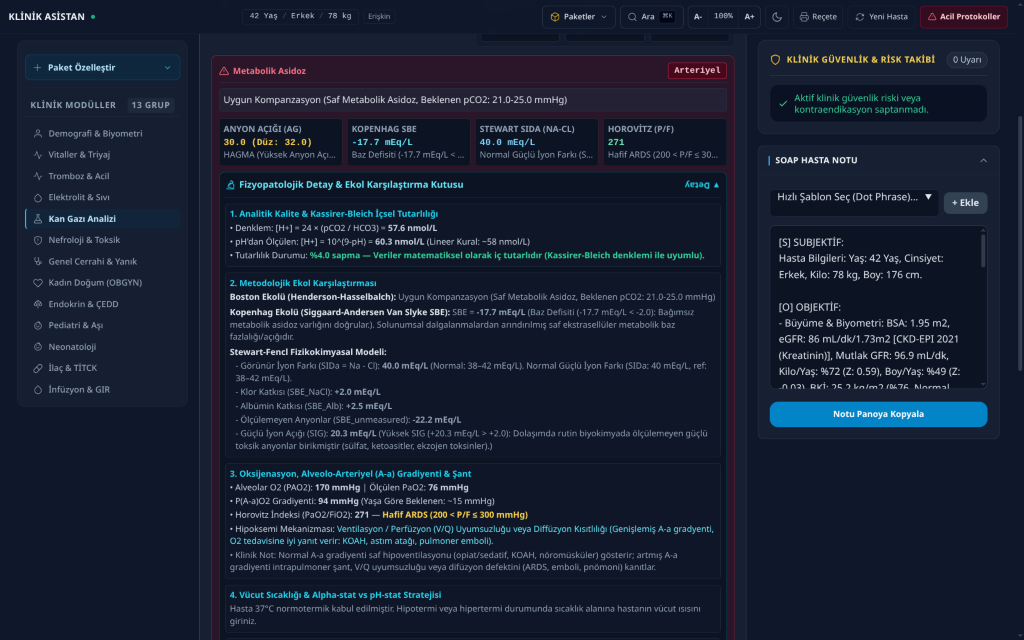
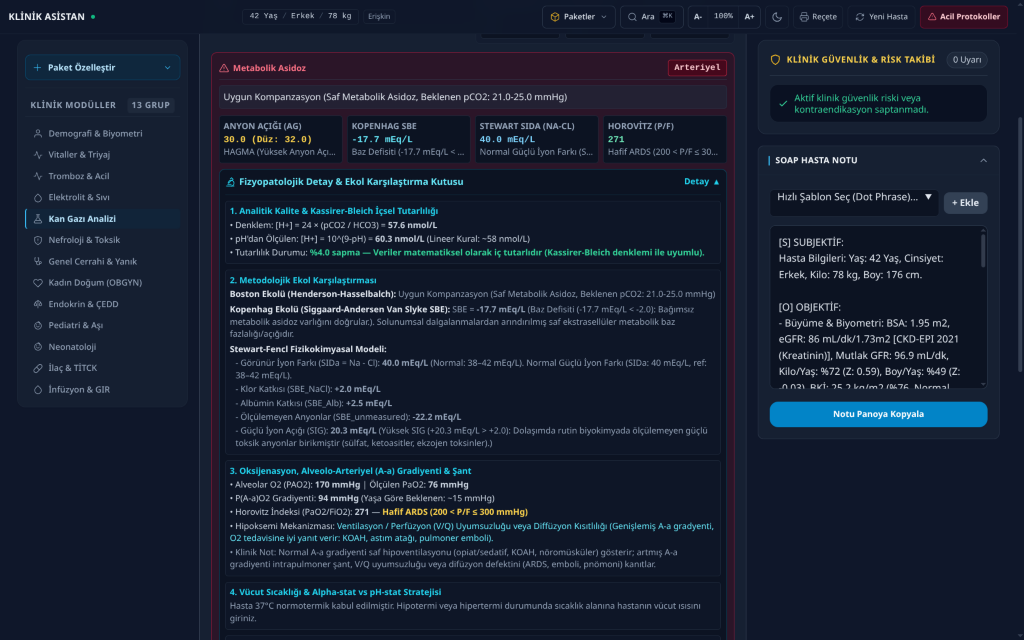
docs(readme): canlı demo özeti, monograf ve mobil ekran görüntüleri; kan gazı Detay oku düzeltildi

Changed region(s): [[0.2188, 0.0938, 0.7188, 0.9688], [0.625, 0.0625, 0.7188, 0.125]]

diff --git a/src/controllers/internalMedicineController.ts b/src/controllers/internalMedicineController.ts
@@ -614,7 +614,7 @@ export function updateInternalMedicineCard(ageData: PatientAgeResult): void {
                         ${getSvgIcon('microscope', 'w-3.5 h-3.5 text-cyan-400 shrink-0')}
                         <span>Fizyopatolojik Detay & Ekol Karşılaştırma Kutusu</span>
                     </span>
-                    <span class="text-[0.75rem] text-cyan-400 group-open/deep:rotate-180 transition-transform">▼ Detay</span>
+                    <span class="inline-flex items-center gap-1 text-[0.75rem] text-cyan-400"><span>Detay</span><span class="inline-block group-open/deep:rotate-180 transition-transform">▼</span></span>
                 </summary>
                 
                 <div class="mt-2 space-y-2 text-[0.75rem] text-slate-300 border-t border-cyan-900/40 pt-2">

diff --git a/README.md b/README.md
@@ -13,6 +13,28 @@ Klinik Karar Destek Asistanı; acil servis, poliklinik ve yataklı servislerde g
 
 Projenin temel amacı; yoğun klinik çalışma temposunda sık başvurulan kılavuz algoritmalarını, pediatrik ve erişkin dozaj hesaplamalarını, çoklu ilaç etkileşim denetimini ve epikriz dokümantasyonunu tek bir arayüzde toplayarak hekimin karar verme sürecine pratik ve güvenilir bir asistan sunmaktır.
 
+**Canlı Uygulama (PWA):** [vellidr.github.io/klinik-pwa-deneme](https://vellidr.github.io/klinik-pwa-deneme/) — Doğrudan tarayıcıda çalışır; masaüstü ve mobil cihazlara çevrimdışı uygulama olarak kurulabilir.
+
+### Öne Çıkan Kapsam
+- **21 klinik karar destek motoru:** Biyometri ve persentil (WHO / Neyzi 2015), eGFR (Schwartz / CKD-EPI 2021), 3 ekollü kan gazı analizi (Boston · Kopenhag · Stewart-Fencl), AAP 2022 yenidoğan sarılığı, pediatrik şurup dozlama, GBP 2026 aşı yakalama ve 10 başlıkta 30 genel cerrahi skorlama sistemi.
+- **Yerel TİTCK ilaç ve etkileşim katmanı:** 18.212 ruhsatlı ilaç, 1.794 ATC / 1.798 ICD-10 endikasyon eşlemesi, 5 sekmeli monograf görünümü, 1.198 ATC Türkçe KÜB bölümü ve 81.327 DDInter 2.0 etkileşim çifti.
+- **Canlı SOAP notu ve A4 kullanım çizelgesi:** Girilen ölçüm, skor ve uyarıların otomatik SOAP metnine derlenmesi ve hasta için yazdırılabilir A4 ilaç çizelgesi.
+- **Acil durum akışları:** Kilo bazlı IM adrenalin dozajı ile 5 dakikalık canlı anafilaksi sayacı ve AES kademeli status epileptikus kronometresi.
+- **İstemci taraflı gizlilik ve çevrimdışı çalışma:** Hasta verisi sunucuya gönderilmez; çekirdek uygulama ve ilaç veritabanı Workbox ile yerel önbelleğe alınır.
+
+<details>
+<summary>English Summary</summary>
+
+**Klinik Karar Destek Asistanı (Klinik PWA)** is an open-source, offline-first clinical decision support and medical education Progressive Web App built with TypeScript and Vite for Turkish clinical practice.
+
+- **21 Clinical Modules:** Pediatric growth percentiles (WHO & Neyzi 2015), eGFR (Schwartz & CKD-EPI 2021), three-school blood gas interpretation (Boston, Copenhagen SBE, Stewart-Fencl), AAP 2022 / TND 2014 neonatal hyperbilirubinemia, weight-based pediatric syrup dosing, Turkish national vaccination catch-up (GBP 2026), and 30 general surgery scoring systems across 10 domains.
+- **Local Drug Safety & Monograph Layer:** Client-side catalog of 18,212 Turkish-licensed medications (TİTCK), ICD-10 indication search, 5-tab monographs with 1,198 Turkish SmPC (KÜB) sections, LiverTox DILI flags, and an O(1) interaction engine combining curated rules with 81,327 DDInter 2.0 pairs.
+- **Privacy & Offline Support:** 100% client-side execution with zero telemetry; patient data never leaves the browser.
+- **Live Demo:** https://vellidr.github.io/klinik-pwa-deneme/
+- **Disclaimer:** Intended strictly as an educational and clinical reference aid for healthcare professionals; all calculations and drug decisions must be independently verified by a licensed physician.
+
+</details>
+
 ---
 
 > [!IMPORTANT]
@@ -25,7 +47,7 @@ Projenin temel amacı; yoğun klinik çalışma temposunda sık başvurulan kıl
 
 ## Uygulama Ekran Görüntüleri
 
-Uygulamanın masaüstü iş istasyonu görünümü (sol tarafta 13 klinik modül grubu, ortada reaktif karar destek motoru, sağda canlı güvenlik alarmları ve otomatik SOAP hasta notu) ile Aydınlık / Karanlık tema desteğini gösteren beş farklı klinik motor örneği:
+Masaüstü iş istasyonu görünümü (sol tarafta 13 klinik modül grubu, ortada reaktif karar destek motoru, sağda canlı güvenlik alarmları ve otomatik SOAP hasta notu), Aydınlık / Karanlık tema desteği, 5 sekmeli ilaç monografı ve mobil PWA görünümünden örnekler:
 
 ### 1. Biyometri, Pediatrik Persentil Spektrumu ve Canlı SOAP (Aydınlık Mod)
 18 aylık bir pediatrik olguda Mosteller BSA, IDMS yatakbaşı Schwartz eGFR (mutlak GFR dâhil), Neyzi 2015 ulusal büyüme standartlarına göre renk kodlu persentil spektrum çubukları ve sağ panelde eşzamanlı güncellenen canlı SOAP hasta notu.
@@ -51,6 +73,18 @@ Evre 3 KBH ($\text{eGFR } 40\text{ mL/dk}$) olan 68 yaşındaki hastada Ramipril
 48 saatlik, 38 haftalık ve DAT(+) izoimmün hemoliz riskli yenidoğanda AAP 2022 fototerapi / bakım eskalasyonu / kan değişimi eşikleri, Non-Subtraction kuralı, Bilirubin/Albümin oranı, Tablo 4 taburculuk matrisi, TND 2014 ikili kılavuz kıyaslaması ve %10,9 aşırı tartı kaybı alarmı.
 
 ![Neonatoloji — AAP 2022 Hiperbilirubinemi ve Yenidoğan Sarılığı Yönetimi](docs/screenshots/05-neonatoloji-aap2022-sarilik.png)
+
+### 6. 5 Sekmeli TİTCK Klinik Monograf Modalı (KÜB, ICD-10, DILI ve SGK)
+Atorvastatin örneğinde 5 sekmeli (`Özet & Doz`, `Etkileşimler`, `Güvenlik`, `Farmakoloji`, `SGK & Fiyat`) çevrimdışı klinik monograf görünümü: onaylı ICD-10 endikasyon etiketleri, resmi Türkçe TİTCK KÜB metni, gebelik / LiverTox DILI rozetleri ve erişkin-pediatrik dozaj özeti.
+
+![5 Sekmeli TİTCK Klinik Monograf Modalı](docs/screenshots/06-titck-monograf-modal.png)
+
+### 7. Mobil PWA Görünümü (Pediatrik Şurup Dozajı ve Acil Anafilaksi Sayacı)
+Telefon boyutunda (`390×844`) 4 yaşında / 16 kg pediatrik olgu üzerinden iki yatak başı görünüm: solda kilo bazlı şurup dozlama (`mL` / oral enjektör, klavulanat toksisite ve saklama uyarıları, GBP 2025/2026 erişimi), sağda kilo bazlı İM adrenalin dozajı ile 5 dakikalık canlı geri sayım ve sıvı bolusu.
+
+| Pediatrik Şurup Dozlama & Aşı Erişimi | Acil Anafilaksi & 5 dk Adrenalin Sayacı |
+| :---: | :---: |
+| <img src="docs/screenshots/07-mobil-pediatrik-dozaj.png" alt="Mobil PWA — Pediatrik Şurup Dozlama" width="330" /> | <img src="docs/screenshots/08-mobil-acil-anafilaksi.png" alt="Mobil PWA — Acil Anafilaksi ve 5 dk Adrenalin Sayacı" width="330" /> |
 
 ---
 
